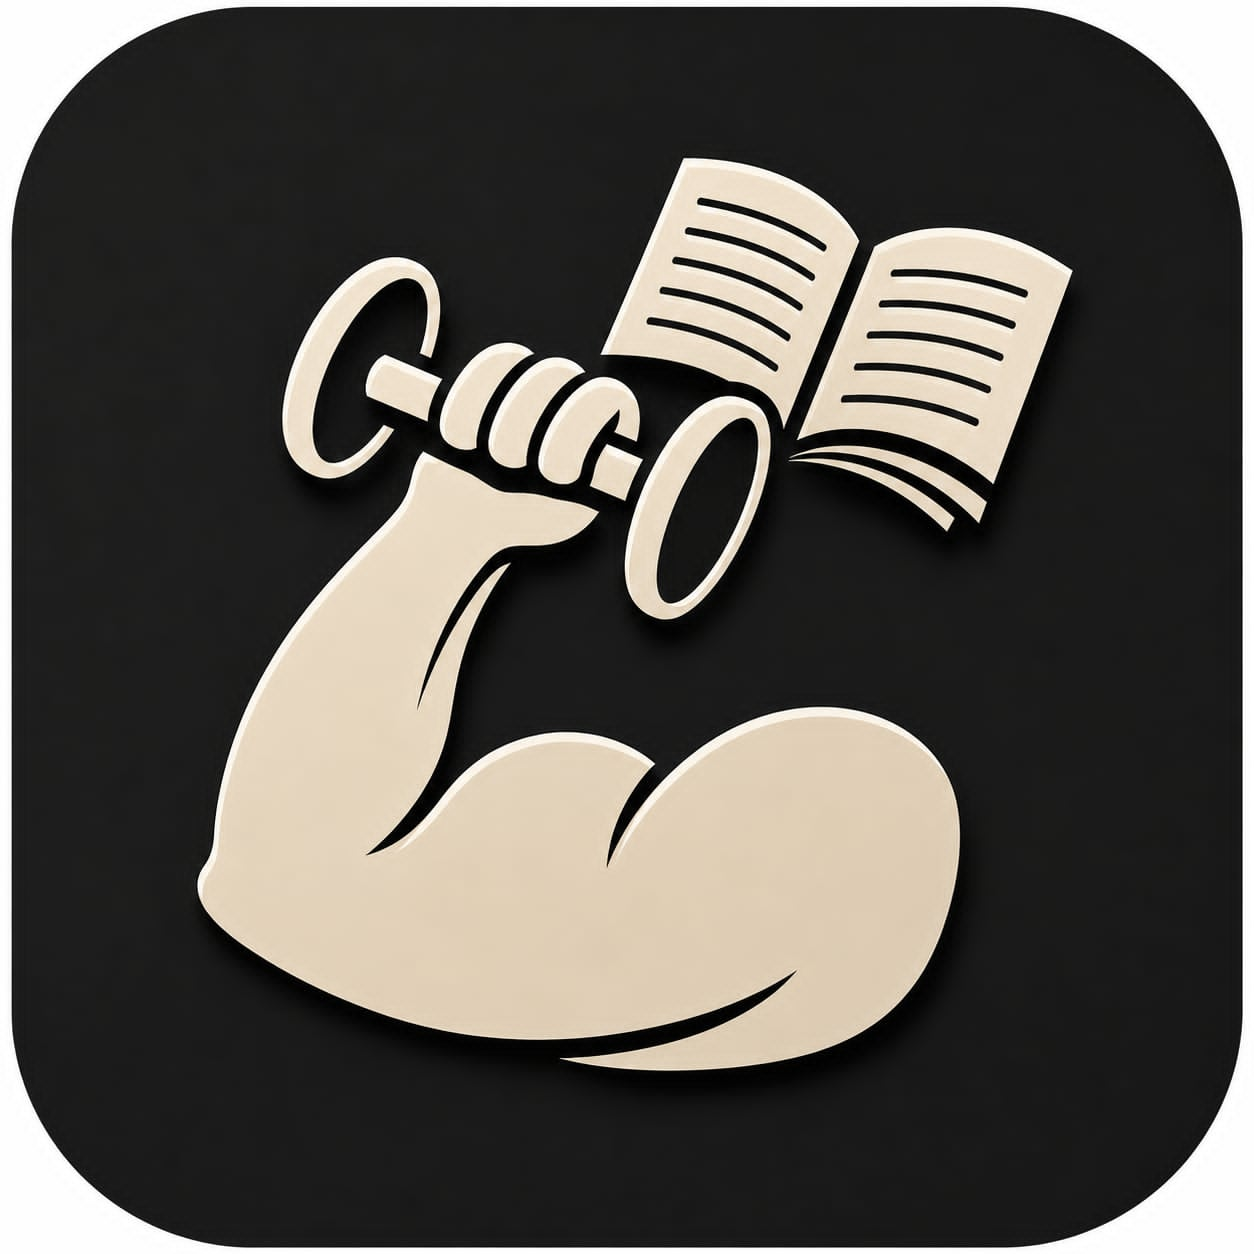
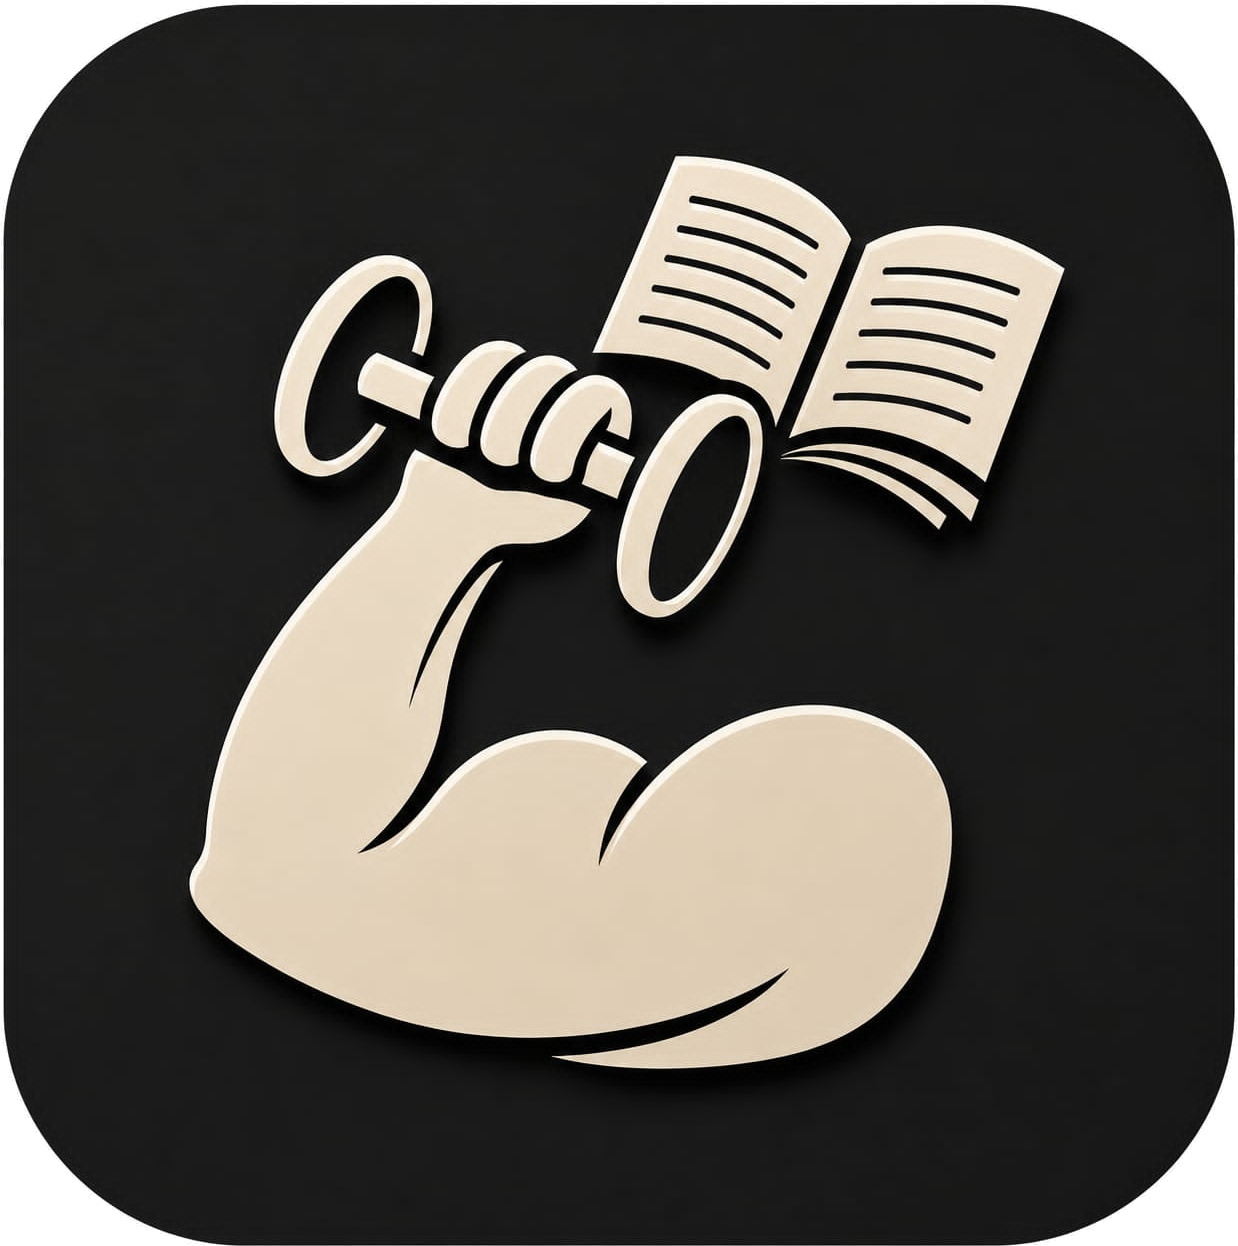
fix: keypad will no longer obstruct folder name

diff --git a/apps/mobile/app/(tabs)/workout.tsx b/apps/mobile/app/(tabs)/workout.tsx
@@ -6,7 +6,10 @@ import {
   Pressable,
   Alert,
   ActivityIndicator,
+  KeyboardAvoidingView,
+  Platform,
 } from "react-native";
+import type { FlatList } from "react-native-gesture-handler";
 import { useRouter } from "expo-router";
 import { useColorScheme } from "nativewind";
 import DraggableFlatList, {
@@ -26,6 +29,7 @@ import { confirmFinishSession } from "@/src/features/session-workout/ui/finish-s
 import { ProgramRow } from "@/src/features/program-workout/ui/template-row";
 import { UnassignedHeaderRow } from "@/src/components/unassigned-header-row";
 import { useSessionTimer } from "@/src/features/program-workout/hooks/use-session-timer";
+import { useKeyboardHeight } from "@/src/hooks/use-keyboard-height";
 import {
   applyDragResult,
   buildRows,
@@ -45,6 +49,10 @@ export default function Workout() {
   const { colorScheme } = useColorScheme();
   const isDark = colorScheme === "dark";
   const { programs, deleteProgram, isLoading } = useWorkoutPrograms();
+  const listRef = React.useRef<FlatList<Row>>(null);
+  const renameScrollTimeoutRef = React.useRef<ReturnType<typeof setTimeout> | null>(
+    null,
+  );
 
   const [folders, setFolders] = useState<TemplateFolder[]>([]);
   const [foldersLoading, setFoldersLoading] = useState(true);
@@ -54,6 +62,9 @@ export default function Workout() {
 
   const [unassignedOpen, setUnassignedOpen] = useState(true);
   const [openFolderIds, setOpenFolderIds] = useState<string[]>([]);
+  const [renamingFolderId, setRenamingFolderId] = useState<string | null>(null);
+  const keyboardHeight = useKeyboardHeight();
+  const listBottomPadding = keyboardHeight > 0 ? keyboardHeight + 140 : 16;
 
   const {
     ongoingSession,
@@ -122,6 +133,62 @@ export default function Workout() {
     () => buildRows(templateProgram, folders, unassignedOpen, openFolderIds),
     [templateProgram, folders, unassignedOpen, openFolderIds],
   );
+
+  const scrollFolderIntoKeyboardView = React.useCallback(
+    (folderId: string) => {
+      const index = rows.findIndex(
+        (row) => row.type === "folder-header" && row.folder.id === folderId,
+      );
+
+      if (index < 0) return;
+
+      listRef.current?.scrollToIndex({
+        index,
+        animated: true,
+        viewPosition: 0.28,
+      });
+    },
+    [rows],
+  );
+
+  const handleRenameFolderStart = React.useCallback(
+    (folderId: string) => {
+      setRenamingFolderId(folderId);
+
+      if (renameScrollTimeoutRef.current) {
+        clearTimeout(renameScrollTimeoutRef.current);
+      }
+
+      renameScrollTimeoutRef.current = setTimeout(() => {
+        scrollFolderIntoKeyboardView(folderId);
+      }, 80);
+    },
+    [scrollFolderIntoKeyboardView],
+  );
+
+  useEffect(() => {
+    return () => {
+      if (renameScrollTimeoutRef.current) {
+        clearTimeout(renameScrollTimeoutRef.current);
+      }
+    };
+  }, []);
+
+  useEffect(() => {
+    if (!renamingFolderId || keyboardHeight <= 0) return;
+
+    const frame = requestAnimationFrame(() => {
+      scrollFolderIntoKeyboardView(renamingFolderId);
+    });
+    const timeout = setTimeout(() => {
+      scrollFolderIntoKeyboardView(renamingFolderId);
+    }, 260);
+
+    return () => {
+      cancelAnimationFrame(frame);
+      clearTimeout(timeout);
+    };
+  }, [keyboardHeight, renamingFolderId, scrollFolderIntoKeyboardView]);
 
   const handleCreateTemplate = () => {
     router.push("/program-workout/new");
@@ -366,6 +433,7 @@ export default function Workout() {
           programCount={item.templateCount}
           isOpen={isOpen}
           onToggleOpen={() => toggleFolderOpen(item.folder.id)}
+          onRenameStart={() => handleRenameFolderStart(item.folder.id)}
           onRenameFolder={(name) => handleUpdateFolder(item.folder, name)}
           onDeleteFolder={() => handleDeleteFolder(item.folder.id)}
           onCreateProgramInFolder={() =>
@@ -400,18 +468,32 @@ export default function Workout() {
   }
 
   return (
-    <View className="flex-1 bg-white dark:bg-[#282A36]">
+    <KeyboardAvoidingView
+      className="flex-1 bg-white dark:bg-[#282A36]"
+      behavior={Platform.OS === "ios" ? "padding" : "height"}
+      keyboardVerticalOffset={0}
+    >
       <DraggableFlatList
+        ref={listRef}
         data={rows}
         keyExtractor={(item) => item.key}
         renderItem={renderRow}
         onDragEnd={handleDragEnd}
         activationDistance={8}
+        automaticallyAdjustKeyboardInsets={Platform.OS === "ios"}
+        keyboardDismissMode="on-drag"
+        keyboardShouldPersistTaps="handled"
+        onScrollToIndexFailed={({ index, averageItemLength }) => {
+          listRef.current?.scrollToOffset({
+            offset: Math.max(0, averageItemLength * index - 96),
+            animated: true,
+          });
+        }}
         showsVerticalScrollIndicator={false}
         contentContainerStyle={{
           paddingHorizontal: 16,
           paddingTop: 12,
-          paddingBottom: 16,
+          paddingBottom: listBottomPadding,
         }}
         ListHeaderComponent={
           <View className="mb-3 px-0">
@@ -586,6 +668,6 @@ export default function Workout() {
           ) : null
         }
       />
-    </View>
+    </KeyboardAvoidingView>
   );
 }

diff --git a/apps/mobile/src/features/template-folder/components/folder-row.tsx b/apps/mobile/src/features/template-folder/components/folder-row.tsx
@@ -11,6 +11,7 @@ type FolderRowProps = {
   isOpen: boolean;
   onToggleOpen: () => void;
   onRenameFolder: (newName: string) => Promise<void> | void;
+  onRenameStart?: () => void;
   onDeleteFolder: () => void;
   onCreateProgramInFolder: () => void;
 };
@@ -21,6 +22,7 @@ export default function FolderRow({
   isOpen,
   onToggleOpen,
   onRenameFolder,
+  onRenameStart,
   onDeleteFolder,
   onCreateProgramInFolder,
 }: FolderRowProps) {
@@ -53,7 +55,13 @@ export default function FolderRow({
   const openActions = () => {
     Alert.alert(folder.name || "Folder", undefined, [
       { text: "New program here", onPress: onCreateProgramInFolder },
-      { text: "Rename", onPress: () => setRenaming(true) },
+      {
+        text: "Rename",
+        onPress: () => {
+          onRenameStart?.();
+          setRenaming(true);
+        },
+      },
       { text: "Delete", style: "destructive", onPress: onDeleteFolder },
       { text: "Cancel", style: "cancel" },
     ]);
@@ -106,6 +114,7 @@ export default function FolderRow({
             placeholderTextColor={isDark ? "#6B7280" : "#9CA3AF"}
             value={renameValue}
             onChangeText={setRenameValue}
+            onFocus={onRenameStart}
             autoFocus
           />
 